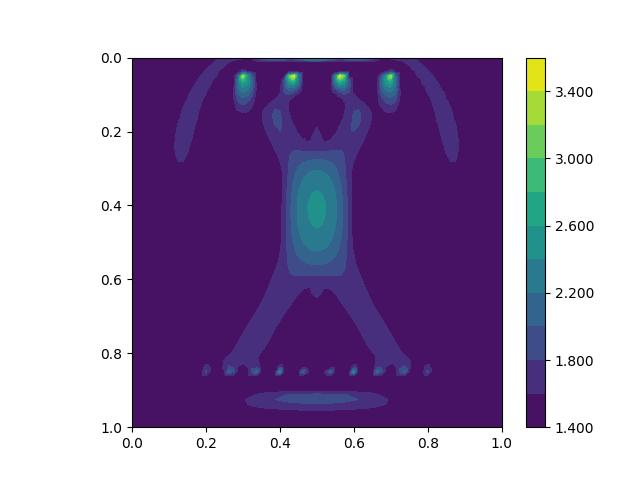
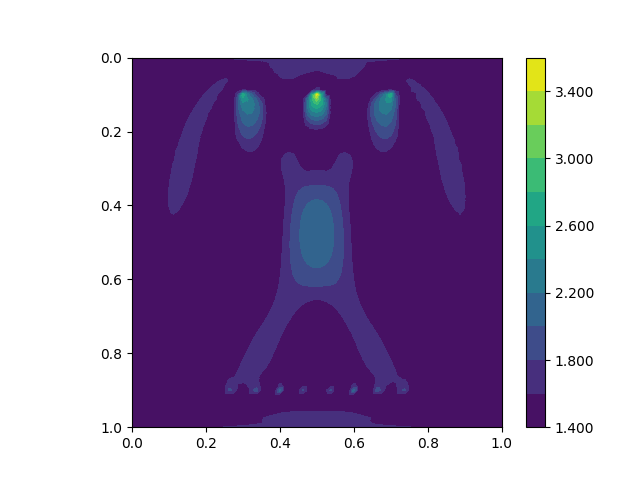
remove checkpointing

Changed region(s): [[0.25, 0.125, 0.75, 0.9062]]

diff --git a/demos/full_waveform_inversion/full_waveform_inversion.py.rst b/demos/full_waveform_inversion/full_waveform_inversion.py.rst
@@ -1,5 +1,5 @@
-Full-waveform inversion: automated gradient, ensemble parallelism and checkpointing
-===================================================================================
+Full-waveform inversion with spatial and wave sources parallelism
+=================================================================
 This tutorial demonstrates how to use Firedrdrake to solve a full-waveform inversion problem
 employing checkpointing, wave sources and mesh parallelism, and gradient computation with the
 algorithmic differentiation.
@@ -7,7 +7,7 @@ algorithmic differentiation.
 .. rst-class:: emphasis
 
     This tutorial was prepared by `Daiane I. Dolci <mailto:d.dolci@imperial.ac.uk>`__ 
-    with contributions from Jack Betteridge.
+    and Jack Betteridge.
 
 Full-waveform inversion (FWI) consists of a local optimisation, where the goal is to minimise
 the misfit between observed and predicted seismogram data. The misfit is quantified by a functional,
@@ -102,13 +102,12 @@ wavelet <https://wiki.seg.org/wiki/Dictionary:Ricker_wavelet>`__ is given by the
                 * np.exp((-1.0 / 4.0) * (2.0 * np.pi * fs) * (2.0 * np.pi * fs) * t0 * t0))
 
 
-In Firedrake, we can simultaneously compute functional values and their gradients for multiple sources.
-This is made possible through the ``Ensemble`` class, which allows both spatial and wave source parallelism. 
-This tutorial demonstrates how the ``Ensemble`` class is employed on the current inversion problem.
+In Firedrake, we can simultaneously compute functional values and their gradients for multiple sources with 
+``Ensemble`` class. This tutorial demonstrates how the ``Ensemble`` class is employed on the current inversion problem.
 First, we will need to define an ensemble object::
 
     from firedrake import Ensemble, COMM_WORLD
-    M = 1
+    M = 2
     my_ensemble = Ensemble(COMM_WORLD, M)
 
 ``my_ensemble`` requires a communicator (which by default is ``COMM_WORLD``) and a value ``M``, the "team" size,
@@ -140,23 +139,19 @@ We consider a two dimensional square domain with side length 1.0 km. The mesh is
 The basic input for the FWI problem are defined as follows::
 
     import numpy as np
-    source_locations = np.linspace((0.3, 0.05), (0.7, 0.05), num_sources)
-    receiver_locations = np.linspace((0.2, 0.85), (0.8, 0.85), 10)
+    source_locations = np.linspace((0.3, 0.1), (0.7, 0.1), num_sources)
+    receiver_locations = np.linspace((0.2, 0.9), (0.8, 0.9), 10)
     dt = 0.002  # time step
     final_time = 0.8  # final time
     frequency_peak = 7.0  # The dominant frequency of the Ricker wavelet.
 
-The firedrake functions will be displayed using the following function::
+We are using a 2D domain, 10 receivers, and 3 sources. Sources and receivers locations are illustrated
+in the following figure:
 
-    import matplotlib.pyplot as plt
-    from firedrake.pyplot import tricontourf
-    def plot_function(function, file_name="function.png"):
-        fig, axes = plt.subplots()
-        contours = tricontourf(function, 10, axes=axes)
-        fig.colorbar(contours, ax=axes, fraction=0.1, cmap="seismic", format="%.3f")
-        plt.gca().invert_yaxis()
-        axes.set_aspect("equal")
-        plt.savefig(file_name + ".png")
+.. image:: sources_receivers.png
+    :scale: 70 %
+    :alt: sources and receivers locations
+    :align: center
 
         
 FWI seeks to estimate the pressure wave velocity based on the observed data stored at the receivers.
@@ -169,13 +164,14 @@ consisting of a circle in the centre of the domain, as shown in the coming code 
     V = FunctionSpace(mesh, "KMV", 1)
     x, z = SpatialCoordinate(mesh)
     c_true = Function(V).interpolate(2.5 + 1 * tanh(200 * (0.125 - sqrt((x - 0.5) ** 2 + (z - 0.5) ** 2))))
-    plot_function(c_true, "c_true")
 
 .. image:: c_true.png
+    :scale: 70 %
+    :alt: true velocity model
+    :align: center
 
 We define the receivers mesh and its function space :math:`V_r`::
 
-    V = FunctionSpace(mesh, "KMV", 1)
     receiver_mesh = VertexOnlyMesh(mesh, receiver_locations)
     V_r = FunctionSpace(receiver_mesh, "DG", 0)
 
@@ -238,10 +234,12 @@ Next, the FWI problem is executed with the following steps:
 **Step 1**: The initial guess is set as a constant field with a value of 1.5 km/s::
 
     c_guess = Function(V).assign(1.5)
-    plot_function(c_guess, "c_initial")
 
 
 .. image:: c_initial.png
+    :scale: 70 %
+    :alt: initial velocity model
+    :align: center
 
 
 To have the step 4, we need first to tape the forward problem. That is done by calling::
@@ -249,23 +247,13 @@ To have the step 4, we need first to tape the forward problem. That is done by c
     from firedrake.adjoint import *
     continue_annotation()
 
-
-We also enable checkpointing in order to reduce the memory usage inherent to the adjoint-based gradient::
-    
-    from checkpoint_schedules import Revolve
-    tape = get_working_tape()
-    tape.enable_checkpointing(Revolve(total_steps, 100))
-
-The schedules for checkpointing are generated from the
-`checkpoint_schedules <https://www.firedrakeproject.org/checkpoint_schedules/>`__ package.
-
 **Steps 2-3**: Solve the wave equation and compute the functional::
 
     f = Cofunction(V.dual())  # Wave equation forcing term.
     solver, u_np1, u_n, u_nm1 = wave_equation_solver(c_guess, f, dt, V)
     interpolate_receivers = Interpolator(u_np1, V_r).interpolate()
     J_val = 0.0
-    for step in tape.timestepper(iter(range(total_steps))):
+    for step in range(total_steps):
         f.assign(ricker_wavelet(step * dt, frequency_peak) * source_cofunction)
         solver.solve()
         u_nm1.assign(u_n)
@@ -290,11 +278,12 @@ it returns the sum of these computations, which are input to the optimisation me
 
 The ``minimize`` function executes the optimisation algorithm until the stopping criterion (``maxiter``) is met.
 
-The optimised parameter ``c_optimised`` for 5 iterations is shown below::
-
-    plot_function(c_optimised, "c_opt_parallel")
+The optimised parameter ``c_optimised`` for 5 iterations is shown below.
 
 .. image:: c_opt_parallel.png
+    :scale: 70 %
+    :alt: optimised velocity model
+    :align: center
 
 .. note::
 
